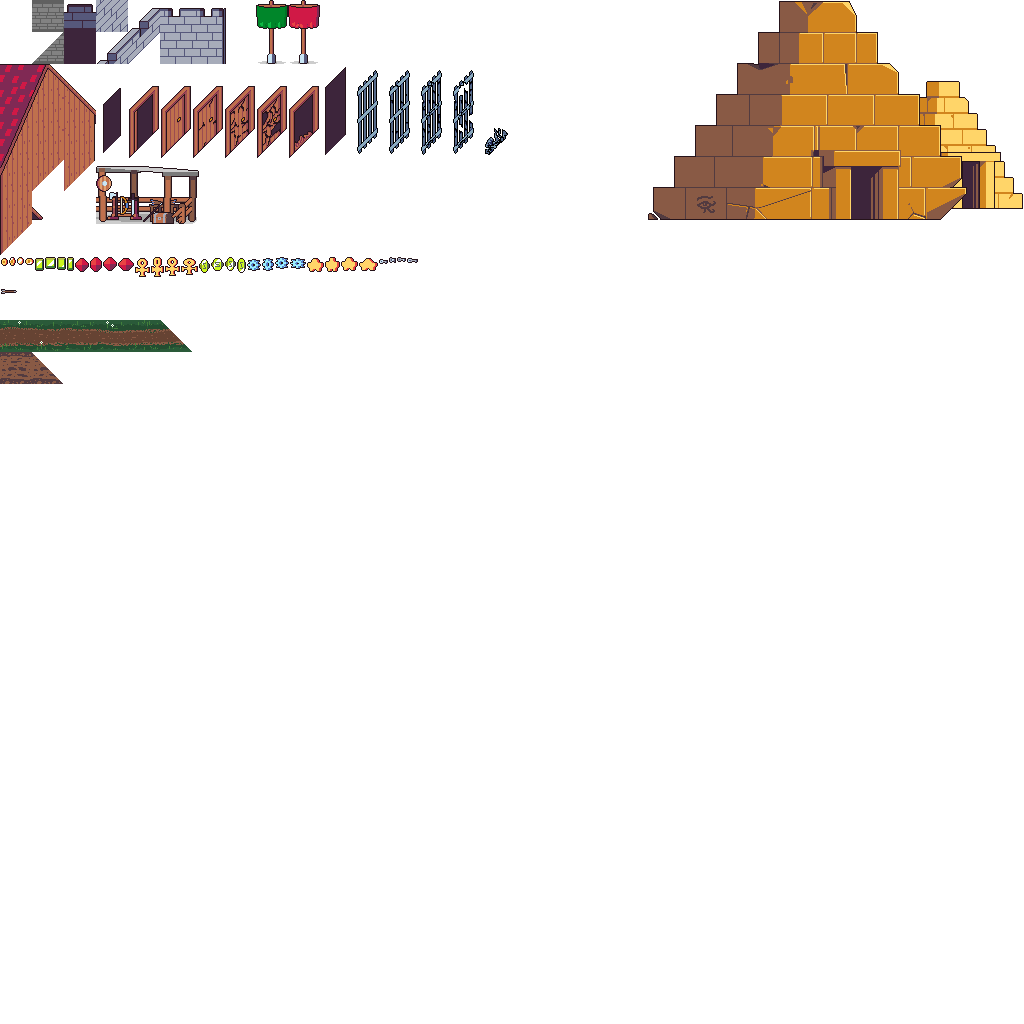
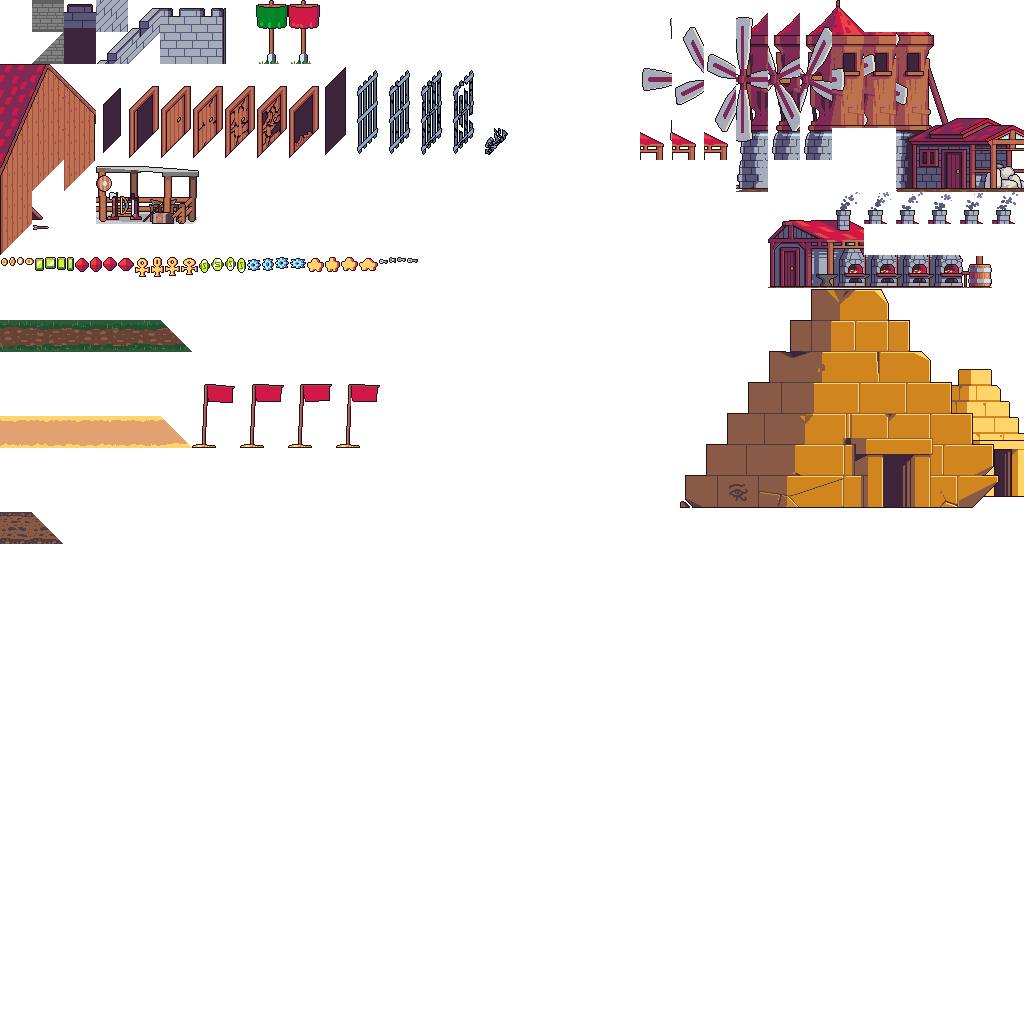
Environments progress

diff --git a/game/scene.go b/game/scene.go
@@ -25,8 +25,14 @@ const ( // layer tilemaps
 	LayerFortFront2
 	LayerFortBack3
 	LayerFortFront3
-	LayerPlains
-	LayerPlainsNoBase
+
+	LayerField
+	LayerFieldNoBase
+	LayerFieldBuildings
+	LayerDesert
+	LayerDesertNoBase
+	LayerDesertBuildings
+
 	LayerFlags
 	LayerGrid
 	LayerCount
@@ -52,13 +58,13 @@ const ( // lanes (collision layers)
 	LaneCount
 )
 
-const EnvironmentPlains Environment = 0
+const EnvironmentField, EnvironmentDesert Environment = 0, 1
 
 const TileSize, MapCount = 32, 4
 
 var TimeScale float32 = 1
 var View graphics.View
-var Background, MapNoBase, Map, Grid, Flags *graphics.Object
+var Background, Map, MapNoBase, MapBuildings, Grid, Flags *graphics.Object
 var Decor, UserInterface assets.AtlasId
 var Layers [LayerCount]assets.TileLayerId
 
@@ -94,7 +100,6 @@ func InitScene() {
 	}
 
 	Decor = assets.LoadAtlas(decor, "data/decor.xml")
-	Decor = assets.LoadAtlas(decor, "data/decor.xml")
 	laneCollisions[LaneLower] = low.TilemapShapes()
 	laneCollisions[LaneLowerOff] = lowOff.TilemapShapes()
 	laneCollisions[LaneMiddle] = mid.TilemapShapes()
@@ -114,28 +119,29 @@ func InitScene() {
 
 	mirrorGarrisonLanes()
 
-	var bgr = graphics.NewSprite(0, 0, 1, assets.LoadImage("data/bgr-field.png"))
-	var _map, mapNoBase = graphics.NewTilemap(layers[LayerPlains]), graphics.NewTilemap(layers[LayerPlainsNoBase])
-	Background, Map, MapNoBase = &bgr, &_map, &mapNoBase
+	var bgr = graphics.NewSprite(0, 0, 1, assets.LoadImage("data/environments/background-desert.png"))
+	var _map, mapNoBase = graphics.NewTilemap(layers[LayerDesert]), graphics.NewTilemap(layers[LayerDesertNoBase])
+	var mapBuildings = graphics.NewTilemap(layers[LayerDesertBuildings])
+	Background, Map, MapNoBase, MapBuildings = &bgr, &_map, &mapNoBase, &mapBuildings
 
 	var flag, grid = graphics.NewTilemap(layers[LayerFlags]), graphics.NewTilemap(layers[LayerGrid])
 	Flags, Grid = &flag, &grid
 
 	AllyBase = NewBase(TeamAlly, SaveState{
-		Kind: BaseNone, Garrison: Garrison3, EntranceKinds: [3]EntranceKind{
+		Kind: BaseCamp, Garrison: Garrison3, EntranceKinds: [3]EntranceKind{
 			EntranceNone, EntranceNone, EntranceNone,
 		},
 	})
 	EnemyBase = NewBase(TeamEnemy, SaveState{
-		Kind: BaseFortress, Garrison: Garrison3, EntranceKinds: [3]EntranceKind{
-			EntranceDoor, EntranceShortGate, EntranceNone,
+		Kind: BaseNone, Garrison: Garrison3, EntranceKinds: [3]EntranceKind{
+			EntranceNone, EntranceNone, EntranceNone,
 		},
 	})
 
 	// Units = append(Units, NewUnit(CharWoman, TeamAlly, LaneUpperOff))
 	// Units = append(Units, NewUnit(CharWoman, TeamEnemy, LaneUpperOff))
 	// Units = append(Units, NewUnit(CharMan, TeamAlly, LaneUpper))
-	Units = append(Units, NewUnit(CharHunter, TeamAlly, LaneLower))
+	// Units = append(Units, NewUnit(CharHunter, TeamAlly, LaneLower))
 	// Units = append(Units, NewUnit(CharMan, TeamEnemy, LaneMiddle))
 	// Units = append(Units, NewUnit(CharHunter, TeamEnemy, LaneGarrisonPlus1))
 	// Units = append(Units, NewUnit(CharHunter, TeamEnemy, LaneGarrisonPlus3))
@@ -145,11 +151,11 @@ func InitScene() {
 	// Units = append(Units, NewUnit(CharHunter, TeamEnemy, LaneGarrison2))
 	// Units = append(Units, NewUnit(CharHunter, TeamEnemy, LaneGarrison3))
 	// Units = append(Units, NewUnit(CharHunter, TeamEnemy, LaneGarrison4))
-	Units = append(Units, NewUnit(CharHunter, TeamEnemy, LaneGarrison5))
+	// Units = append(Units, NewUnit(CharHunter, TeamEnemy, LaneGarrison5))
 
 	Pickups = append(Pickups, NewPickup(0, PickupRelic, LaneLowerOff))
 
-	PlayAmbience(EnvironmentPlains)
+	PlayAmbience(EnvironmentField)
 }
 
 //=================================================================
@@ -162,6 +168,7 @@ func UpdateScene() {
 
 	View.DrawColor(skyColor)
 	View.DrawObject(Background)
+	View.DrawObject(MapBuildings)
 
 	AllyBase.UpdateBack()
 	EnemyBase.UpdateBack()
@@ -237,6 +244,8 @@ func DrawShadow(x, z, width, height, angle float32, mask geometry.Area) {
 // private ========================================================
 
 var skyColor = color.TagRGBA("rgb(98, 171, 212)")
+
+// var skyColor = color.TagRGBA("rgb(227, 177, 109)")
 
 func mirrorGarrisonLanes() {
 	for i := LaneGarrison1; i < LaneGarrisonPlus5+1; i++ {

diff --git a/game/audio.go b/game/audio.go
@@ -14,8 +14,8 @@ var AudioHitFlesh, AudioHitWood, AudioHitMetal []audio.Audio
 var AudioEventPositive, AudioEventNegative []audio.Audio
 
 func LoadAudio() {
-	ambiences[EnvironmentPlains] = assets.LoadMusic("data/music/ambience-plains.mp3")
-	AudioAmbience = audio.New(ambiences[EnvironmentPlains])
+	ambiences[EnvironmentField] = assets.LoadMusic("data/music/ambience-plains.mp3")
+	AudioAmbience = audio.New(ambiences[EnvironmentField])
 
 	AudioDoorOpen = append(AudioDoorOpen, audio.New(assets.LoadSound("data/sounds/door-open1.mp3", 4)))
 	AudioDoorOpen = append(AudioDoorOpen, audio.New(assets.LoadSound("data/sounds/door-open2.mp3", 4)))

diff --git a/game/health-bar.go b/game/health-bar.go
@@ -159,7 +159,7 @@ func (hb *HealthBar) Update(target geometry.Shape, health, maxHealth int, mask g
 			hb.glory.Effects.Tint = color.RGBA(r, g, b, alpha)
 		} else if progress < fallStart { // breathing hang
 			var t = number.Map(progress, riseEnd, fallStart, 0, 1)
-			var microFloat = number.Sine(t*3.14159) * 2.0 // adds a breating 16 -> 18 -> 16
+			var microFloat = number.Sine(t*3.14159) * 2.0 // adds pulsing 16 -> 18 -> 16...
 			hb.glory.Effects.TextLineHeight = 16 + microFloat
 
 		} else { // faster fall
